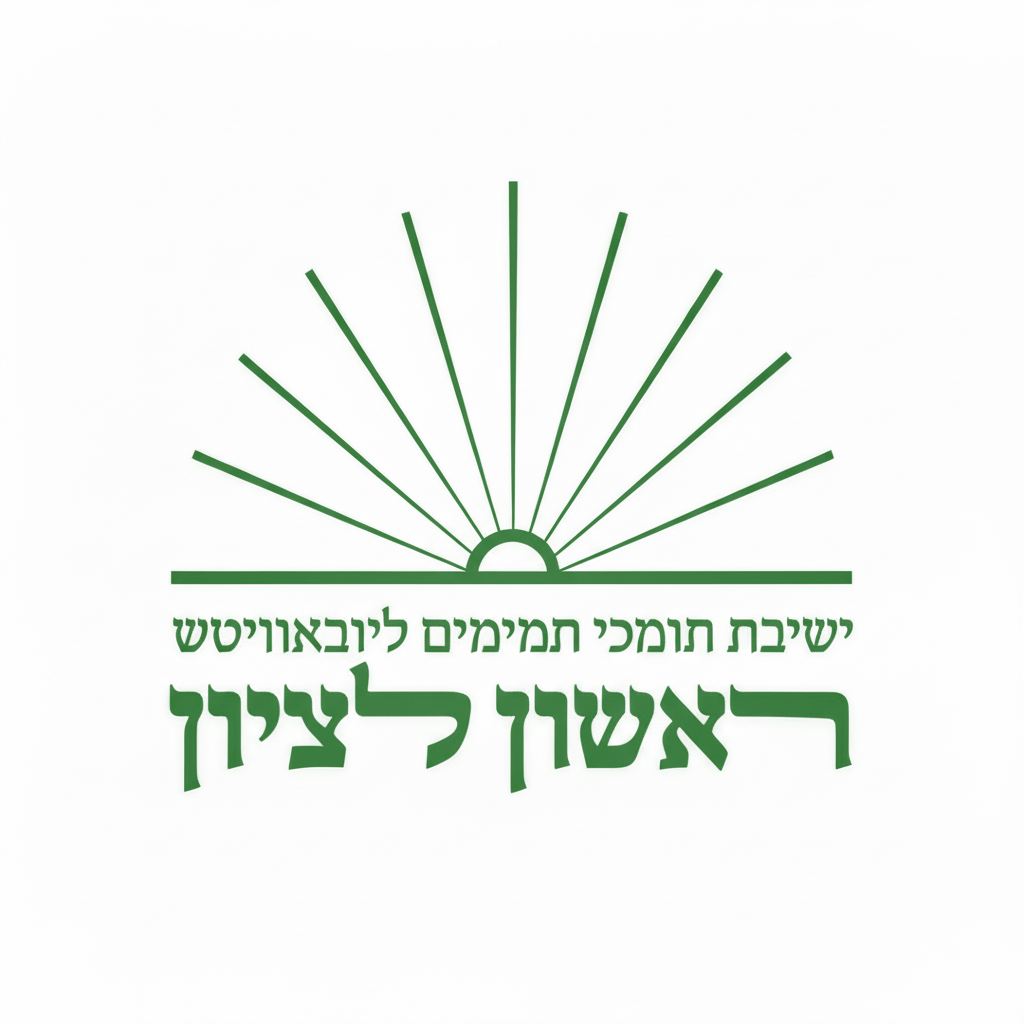
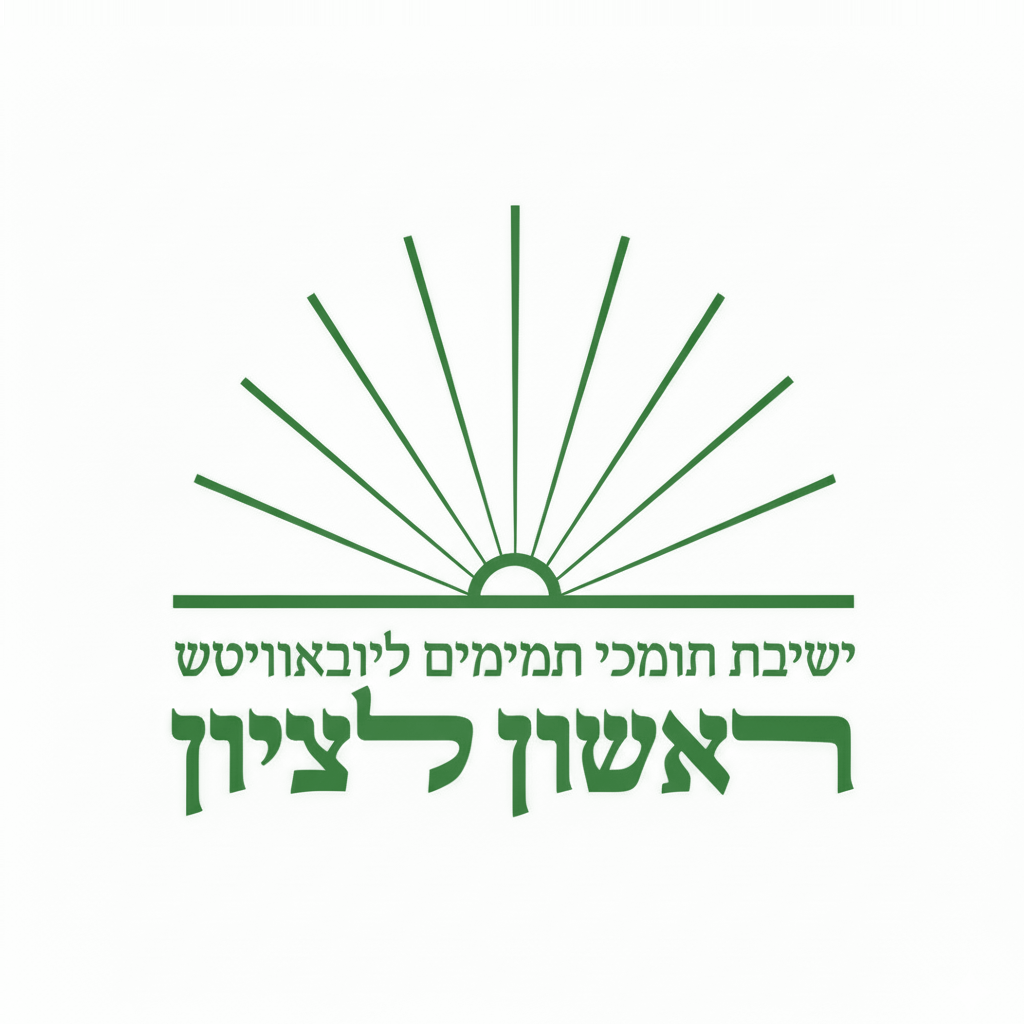
סבב 83: המאסטר יושר, ו-64 מ-64 הנכסים נגזרו מחדש
⛔ תיבת התוכן של המאסטר נמדדה **בנוסחת המחולל עצמו** — `Math.max`
על שלושת הערוצים מול `bgKey`, חלקי `keyTol`, וסף `ALPHA_MIN` —
ונמצאה L=164 R=168 T=178 B=226, ⛔ ולא L=165 R=167 שנמסר.
⭐ ולכן ההזזה היא x+2 y+24 ולא x+1, והתוצאה היא היעד שהוצהר:
L=R=166 · T=B=202.

⚠ ההזזה היא העתקה עם הצמדת-קצה — ⛔ הציור והטקסט לא נערכו,
והרצועה שהתפנתה יושבת כולה באזור הנייר.

⛔ `APP.masterBox` יושר לערך שנמדד — ⚠ השער תפס את הפער והודעתו
נקבה בערך הנמדד ובמה לעשות.

Claude-Session: https://claude.ai/code/session_01V9MYZv647BuNxyPBkm7YRp

diff --git a/CLAUDE.md b/CLAUDE.md
@@ -263,7 +263,7 @@ foot)` — מיכל אחד ומסלול סגירה יחיד. ⛔ אירועים 
 | 82 | אין נכסים מוטבעים | ה-APK טוען את הקוד מהרשת — ⛔ ואינו כולל עותק מקומי | ✅ | ✅ | ✅ | ✅ | |
 | 83 | מספר קבצים ב-`android/` | **20 קבצים** | ⭕ | ✅ | ✅ | ✅ | ⛔ הבדל מכוון: 21 ביומן — `file_paths` לגשר השיתוף, ⛔ ואין ליישר בכוח |
 | 84 | אייקונים — מקור אמת יחיד | המחולל מייצר את כל נכסי האייקון מאפס, ⛔ והרצתו אינה משנה **אף אחד מ-16 הנכסים** · ⛔ ונכס אינו נערך ידנית · ⛔ **וכל שדה ב-`APP` שנבדל בין הארבע נושא הערת נימוק במקומו** — ⚠ שדה שאינו רלוונטי לאפליקציה מוצהר ריק ⛔ ואינו נשמט: ⭐ שדה חסר נקרא «לא נשאל», וריק נקרא «נמדד ואין» · ⛔ **והגזירה המלאה אינה עוברת 3 שניות** — ⚠ פיקסל שאינו על גבול הצורה מוכרע בקריאה אחת ⛔ ולא ב-64 | ✅ | ✅ | ✅ | ✅ | נמדד 0.35 שניות ביומן · 0.39 בגיוס |
-| 85 | המחולל חותך לתיבת התוכן | ⛔ המחולל חותך את המסכה **לתיבת התוכן מיד אחרי הגזירה**, ⚠ ורק אז ממרכז אותה במסגרת — ⭐ ולכן מיקום הצורה בקנבס המאסטר אינו משפיע על אף נכס: ⛔ אין ליישר את המאסטר «כדי שהנכסים יצאו ממורכזים» · ⛔ **והמדידה בסף `ALPHA_MIN`** — ⚠ סף אחר מזה שהמחולל מייצר בו מזיז את גבול התיבה, ⛔ ומדווח תזוזה על נכס שלא זז · ⛔ **ובמאסטר עצמו הסף הוא מרחק-מרקע מ-`bgKey`, ⛔ ולא אלפא** — ⚠ המאסטר אטום לגמרי, ⭐ ומדידת אלפא בו מחזירה את הקנבס כולו: ⛔ הערך נגזר מהמחולל (`ALPHA_MIN`/255 × `keyTol`) ⛔ ואינו נבחר, ⛔ **ותיבת התוכן שנמדדה מוצהרת ב-`APP` ומושווית** · ⛔ **וה-probe מזיז את המאסטר בעותק זמני, גוזר, ומאמת** שתיבת התוכן של כל 16 הנכסים לא זזה ⛔ **ושהנכסים שנגזרים מהמסכה החתוכה בלבד זהים בית-לבית** | ⭕ | ✅ | ✅ | ⭕ | ⛔ הבדל מכוון: אין מאסטר רסטרי ביומן ובגיוס — הסמל מצויר בצורות, ⛔ ואין קנבס שאפשר להזיז בו דבר; ⚠ נמדד: הזזה של 7/5 פיקסלים משאירה 16 מ-16 התיבות במקומן ו-5 מ-16 הנכסים זהים בבייט — ⛔ 11 האריחים נבדלים, שמרקם הנייר שלהם נדגם מקואורדינטות מוחלטות; ⚠ ותיבת המאסטר נמדדה בשני המאסטרים כאחד — L=164 R=168 T=178 B=226 בסף המחולל, ⛔ ובסף 60 היא L=169 R=171: ⭐ שלוש המדידות הסותרות שדווחו בסבבים 80–81 כולן מכאן |
+| 85 | המחולל חותך לתיבת התוכן | ⛔ המחולל חותך את המסכה **לתיבת התוכן מיד אחרי הגזירה**, ⚠ ורק אז ממרכז אותה במסגרת — ⭐ ולכן מיקום הצורה בקנבס המאסטר אינו משפיע על אף נכס: ⛔ אין ליישר את המאסטר «כדי שהנכסים יצאו ממורכזים» · ⛔ **והמדידה בסף `ALPHA_MIN`** — ⚠ סף אחר מזה שהמחולל מייצר בו מזיז את גבול התיבה, ⛔ ומדווח תזוזה על נכס שלא זז · ⛔ **ובמאסטר עצמו הסף הוא מרחק-מרקע מ-`bgKey`, ⛔ ולא אלפא** — ⚠ המאסטר אטום לגמרי, ⭐ ומדידת אלפא בו מחזירה את הקנבס כולו: ⛔ הערך נגזר מהמחולל (`ALPHA_MIN`/255 × `keyTol`) ⛔ ואינו נבחר · ⛔ **המדידה במאסטר בנוסחת המחולל** — `Math.max` על שלושת הערוצים מול `bgKey`, חלקי `keyTol`, וסף `ALPHA_MIN` · ⛔ **ותיבת התוכן שנמדדה מוצהרת ב-`APP` ומושווית** · ⛔ **וה-probe מזיז את המאסטר בעותק זמני, גוזר, ומאמת** שתיבת התוכן של כל 16 הנכסים לא זזה ⛔ **ושהנכסים שנגזרים מהמסכה החתוכה בלבד זהים בית-לבית** | ⭕ | ✅ | ✅ | ⭕ | ⛔ הבדל מכוון: אין מאסטר רסטרי ביומן ובגיוס — הסמל מצויר בצורות, ⛔ ואין קנבס שאפשר להזיז בו דבר; ⚠ נמדד: הזזה של 7/5 פיקסלים משאירה 16 מ-16 התיבות במקומן ו-5 מ-16 הנכסים זהים בבייט — ⛔ 11 האריחים נבדלים, שמרקם הנייר שלהם נדגם מקואורדינטות מוחלטות; ⚠ ותיבת המאסטר נמדדה בנוסחת המחולל בשני המאסטרים כאחד — L=164 R=168 T=178 B=226, ⛔ ולא L=165 R=167 שנמסר; ⭐ המאסטר הוזז x+2 y+24 ונמדד L=R=166 T=B=202 |
 | 86 | שכבת האייקונים | 10 קובצי mipmap · מסגרת 48–192 ו-108–432 · תוכן 48–192 · רקע תואם · ⛔ **תיבת התוכן במרכז המסגרת, בלי סטייה** · ⛔ **וצבע הדיו זהה ב-`tile()` וב-`foreground()`, ומוצהר ב-`APP`** | ✅ | ✅ | ✅ | ✅ |  |
 | 87 | שוליים שווים בכל נכס | ⛔ **L=R ו-T=B** בכל אחד מ-16 הנכסים ובכל ארבע האפליקציות — שוליי **תיבת התוכן שנמדדה** שווים בדיוק בשני הצירים, ⚠ והפרש של פיקסל אחד הוא הפרה: ⭐ המסגרת זוגית ושתי צלעות התוכן מכוילות לזוגי, ולכן שני הצירים מתחלקים שווה. ⛔ ואין למדוד כאן מרכז מסה — ⚠ הוא תכונה של הציור ולא של המיקום · ⛔ **נמדד בסף `ALPHA_MIN`** — ⚠ סף אחר מזה שהמחולל מייצר בו מדווח חריגה על נכס תקין, ⛔ או מפספס חריגה אמיתית | ✅ | ✅ | ✅ | ✅ |  |
 | 88 | מסכת המאסטר נקייה מרעש | פיקסל מתחת ל-`ALPHA_MIN` מתאפס — ⛔ ורעש הנייר אינו צובע את רקע האריח | ⭕ | ✅ | ✅ | ⭕ | ⛔ הבדל מכוון: אין מאסטר רסטרי ביומן ובגיוס — הסמל מצויר בצורות ולא בציור, ⛔ ואין ליישר בכוח |
